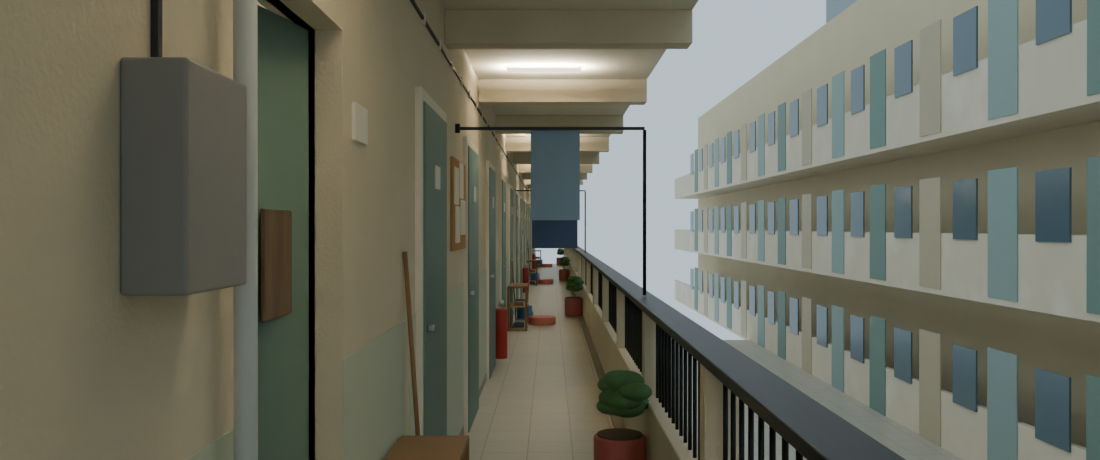
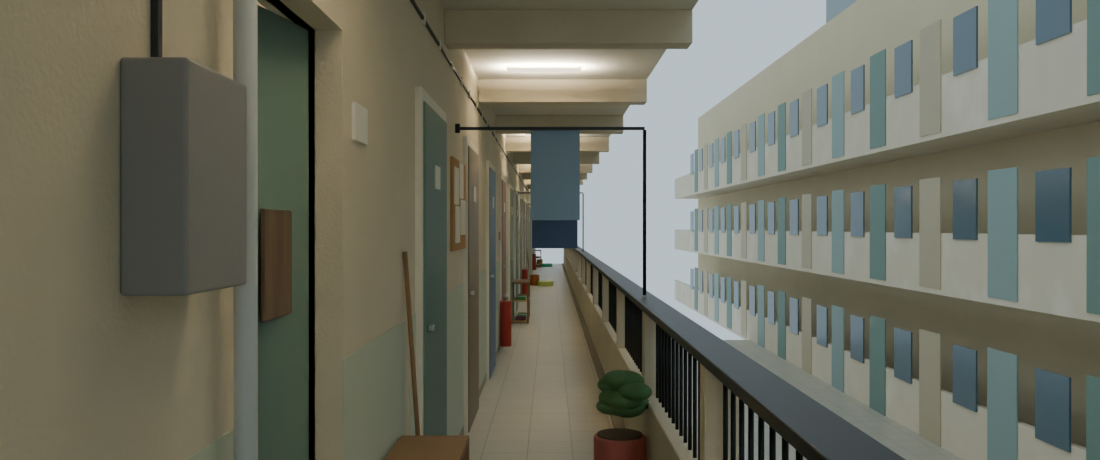
Ho so 02: bien the hanh lang lap (mau cua, bo/doi nhom do, lech vi tri)
Claude-Session: https://claude.ai/code/session_015xtvRhLRyfqVC2mbHabEYR

Changed region(s): [[0.4327, 0.5478, 0.5564, 0.7913]]

diff --git a/episodes/hem-co-chuyen/ho-so-02-nguoi-lam-thay/assets/boi-canh-3d/xay_phong_tro.py b/episodes/hem-co-chuyen/ho-so-02-nguoi-lam-thay/assets/boi-canh-3d/xay_phong_tro.py
@@ -400,13 +400,41 @@ def lights_fixture(m, coll):
 
 
 # ------------------------------------------------------------------ hành lang (ngoài tường cửa, x < 0)
+def _tint(mat, rnd):
+    """Bản sao vật liệu với màu gốc xoay sắc độ ngẫu nhiên (chỉ khi Base Color là giá trị thẳng)."""
+    import colorsys
+    mc = mat.copy()
+    for n in mc.node_tree.nodes:
+        if n.type == 'BSDF_PRINCIPLED' and not n.inputs['Base Color'].is_linked:
+            r, g, b, al = n.inputs['Base Color'].default_value
+            h, sa, v = colorsys.rgb_to_hsv(r, g, b)
+            r, g, b = colorsys.hsv_to_rgb((h + rnd.uniform(0.08, 0.5)) % 1.0, min(1.0, sa * rnd.uniform(0.8, 1.2) + 0.05), v * rnd.uniform(0.85, 1.1))
+            n.inputs['Base Color'].default_value = (r, g, b, al)
+    return mc
+
+
 def _repeat(coll, before, y1, period=9.6, start=0.0):
-    """Nhân bản các vật vừa tạo (so với `before`) dọc hành lang mỗi `period` mét cho tới y1."""
+    """Nhân bản các vật vừa tạo (so với `before`) dọc hành lang mỗi `period` mét cho tới y1, mỗi lần một biến thể:
+    bỏ/đổi nhóm đồ, lệch vị trí, đổi màu đồ nhỏ."""
+    import random
     new = [o for o in coll.objects if o not in before]
+    groups = {'phoi': ('day_phoi', 'cot_phoi', 'moc_phoi', 'phoi_'), 'giay': ('ke_giay', 'dep'), 'chau': ('chau_cay', 'dat_chau', 'la', 'giay'),
+              'xo': ('xo_nuoc', 'chau_nhua', 'choi_hl'), 'bang': ('bang_tb', 'tb_giay')}
+    tintable = ('phoi_', 'dep', 'xo_nuoc', 'chau_nhua', 'chau_cay', 'la')
     k = 1
     while start + period * k < y1 - 1.0:
+        rnd = random.Random(100 + k)
+        drop = set(rnd.sample(sorted(groups), 2))
+        jitter = rnd.uniform(-1.2, 1.2)
         for o in new:
-            c = o.copy(); c.name = f'{o.name}_r{k}'; c.location.y += period * k; coll.objects.link(c)
+            nm = o.name.split('.')[0]
+            if any(nm.startswith(pre) for g in drop for pre in groups[g]) and not (nm.startswith('giay') and 'giay' not in groups['chau'] and False):
+                continue
+            c = o.copy(); c.name = f'{nm}_r{k}'; c.location.y += period * k + jitter
+            if any(nm.startswith(t) for t in tintable) and o.data is not None and o.material_slots:
+                c.data = o.data  # lưới dùng chung
+                c.material_slots[0].link = 'OBJECT'; c.material_slots[0].material = _tint(o.material_slots[0].material, rnd)
+            coll.objects.link(c)
         k += 1
 
 
@@ -426,7 +454,7 @@ def hallway(m, coll, night):
     box('tuong_hl_ngoai_phong_nam_duoi2', ex - 0.004, ex, DOOR['y1'], D, 0, 1.1, lo, coll=coll)
     for nm, a in [(f'cua_phong_{k}', 4.35 + 2.2 * k) for k in range(int((Y1 - 5.5) / 2.2))]:
         box(nm + '_khuon', ex - 0.03, ex + 0.02, a - 0.06, a + 0.91, 0, 2.16, m['viền'], bevel=0.004, coll=coll)
-        box(nm, ex - 0.04, ex - 0.0, a, a + 0.85, 0, 2.10, m['cua'], bevel=0.006, coll=coll)
+        box(nm, ex - 0.04, ex - 0.0, a, a + 0.85, 0, 2.10, M.mottled(nm + '_mau', ['#6d887c', '#8a7a62', '#6b7f95', '#9a6f5e', '#7f8c70'][int(round((a - 4.35) / 2.2)) % 5], rough=0.55, scale=3, vary=0.05, bump=0.05), bevel=0.006, coll=coll)
         box(nm + '_tay', ex - 0.07, ex - 0.04, a + 0.07, a + 0.11, 1.0, 1.03, m['inox'], bevel=0.005, coll=coll)
         box(nm + '_so', ex - 0.045, ex - 0.04, a + 0.33, a + 0.52, 1.7, 1.82, M.solid('so_cua', '#efeadc', 0.5), coll=coll)
     # biển số phòng Nam + đồng hồ điện bên cạnh cửa

diff --git a/episodes/hem-co-chuyen/ho-so-02-nguoi-lam-thay/assets/boi-canh-3d/README.md b/episodes/hem-co-chuyen/ho-so-02-nguoi-lam-thay/assets/boi-canh-3d/README.md
@@ -48,3 +48,4 @@ Trên Linux không màn hình cần `libegl1`. Render Cycles CPU, khoảng 1–2
 - Ban đêm: dãy trọ đối diện có cửa sổ sáng/tắt xen kẽ, rèm, vài bóng người, ánh hắt vào hành lang; chao đèn tuýp hành lang; trời có chuyển sắc.
 - Chưa làm: chuyển động (đồ phơi lay, người đi lại), âm thanh.
 - Hành lang dài 36,6 m (`HL_Y1`): lặp cửa phòng mỗi 2,2 m, đèn/dầm mái mỗi 4,9 m, cụm đồ (kệ giày, dây phơi, chậu cây) mỗi 9,6 m (`_repeat`), dãy trọ đối diện kéo dài theo. Camera `HALL_LONG` nhìn dọc toàn bộ. Đổi độ dài bằng `HL_Y1`.
+- Mỗi lần lặp là một biến thể: bỏ ngẫu nhiên 2 nhóm đồ (dây phơi, kệ giày, chậu cây, xô chậu, bảng tin), lệch vị trí ±1,2 m, đổi màu đồ nhỏ; cửa phòng đổi 5 màu.
